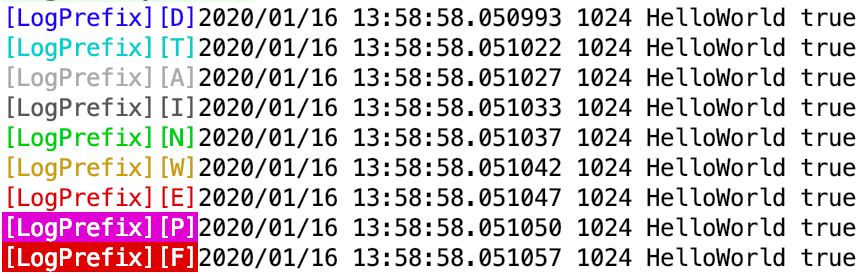
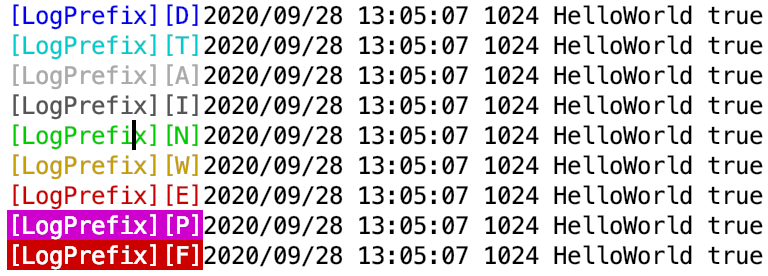
add SetMicroseconds

diff --git a/log.go b/log.go
@@ -58,6 +58,7 @@ type Logger struct {
 	prefix       string
 	out          io.Writer
 	level        Level
+	microseconds int
 	debugLogger  *log.Logger
 	traceLogger  *log.Logger
 	allLogger    *log.Logger
@@ -112,6 +113,21 @@ func (l *Logger) SetLevel(level Level) {
 	l.init()
 }
 
+//SetMicroseconds sets log's microseconds
+func SetMicroseconds(microseconds bool) {
+	logger.SetMicroseconds(microseconds)
+}
+
+//SetMicroseconds sets log's microseconds
+func (l *Logger) SetMicroseconds(microseconds bool) {
+	if microseconds {
+		l.microseconds = log.Lmicroseconds
+	} else {
+		l.microseconds = 0
+	}
+	l.init()
+}
+
 //SetOut sets log's writer. The out variable sets the
 // destination to which log data will be written.
 func SetOut(w io.Writer) {
@@ -136,15 +152,15 @@ func (l *Logger) GetLevel() Level {
 }
 
 func (l *Logger) init() {
-	l.debugLogger = log.New(l.out, blue+"["+l.prefix+"][D]"+reset, log.Ldate|log.Ltime|log.Lmicroseconds|log.LUTC)
-	l.traceLogger = log.New(l.out, cyan+"["+l.prefix+"][T]"+reset, log.Ldate|log.Ltime|log.Lmicroseconds|log.LUTC)
-	l.allLogger = log.New(l.out, white+"["+l.prefix+"][A]"+reset, log.Ldate|log.Ltime|log.Lmicroseconds|log.LUTC)
-	l.infoLogger = log.New(l.out, black+"["+l.prefix+"][I]"+reset, log.Ldate|log.Ltime|log.Lmicroseconds|log.LUTC)
-	l.noticeLogger = log.New(l.out, green+"["+l.prefix+"][N]"+reset, log.Ldate|log.Ltime|log.Lmicroseconds|log.LUTC)
-	l.warnLogger = log.New(l.out, yellow+"["+l.prefix+"][W]"+reset, log.Ldate|log.Ltime|log.Lmicroseconds|log.LUTC)
-	l.errorLogger = log.New(l.out, red+"["+l.prefix+"][E]"+reset, log.Ldate|log.Ltime|log.Lmicroseconds|log.LUTC)
-	l.panicLogger = log.New(l.out, magentaBg+"["+l.prefix+"][P]"+reset, log.Ldate|log.Ltime|log.Lmicroseconds|log.LUTC)
-	l.fatalLogger = log.New(l.out, redBg+"["+l.prefix+"][F]"+reset, log.Ldate|log.Ltime|log.Lmicroseconds|log.LUTC)
+	l.debugLogger = log.New(l.out, blue+"["+l.prefix+"][D]"+reset, log.Ldate|log.Ltime|log.LUTC|l.microseconds)
+	l.traceLogger = log.New(l.out, cyan+"["+l.prefix+"][T]"+reset, log.Ldate|log.Ltime|log.LUTC|l.microseconds)
+	l.allLogger = log.New(l.out, white+"["+l.prefix+"][A]"+reset, log.Ldate|log.Ltime|log.LUTC|l.microseconds)
+	l.infoLogger = log.New(l.out, black+"["+l.prefix+"][I]"+reset, log.Ldate|log.Ltime|log.LUTC|l.microseconds)
+	l.noticeLogger = log.New(l.out, green+"["+l.prefix+"][N]"+reset, log.Ldate|log.Ltime|log.LUTC|l.microseconds)
+	l.warnLogger = log.New(l.out, yellow+"["+l.prefix+"][W]"+reset, log.Ldate|log.Ltime|log.LUTC|l.microseconds)
+	l.errorLogger = log.New(l.out, red+"["+l.prefix+"][E]"+reset, log.Ldate|log.Ltime|log.LUTC|l.microseconds)
+	l.panicLogger = log.New(l.out, magentaBg+"["+l.prefix+"][P]"+reset, log.Ldate|log.Ltime|log.LUTC|l.microseconds)
+	l.fatalLogger = log.New(l.out, redBg+"["+l.prefix+"][F]"+reset, log.Ldate|log.Ltime|log.LUTC|l.microseconds)
 }
 
 // Debug is equivalent to log.Print() for debug.

diff --git a/log_test.go b/log_test.go
@@ -5,6 +5,7 @@
 package log
 
 import (
+	"log"
 	"os"
 	"testing"
 )
@@ -23,6 +24,17 @@ func TestLevel(t *testing.T) {
 	SetOut(os.Stdout)
 	if level != GetLevel() {
 		t.Errorf("error %d != %d", level, GetLevel())
+	}
+}
+
+func TestMicroseconds(t *testing.T) {
+	SetMicroseconds(true)
+	if logger.microseconds != log.Lmicroseconds {
+		t.Errorf("error %d != %d", logger.microseconds, log.Lmicroseconds)
+	}
+	SetMicroseconds(false)
+	if logger.microseconds != 0 {
+		t.Errorf("error %d != %d", logger.microseconds, 0)
 	}
 }
 

diff --git a/example/main.go b/example/main.go
@@ -8,6 +8,7 @@ func main() {
 	logger := log.New()
 	logger.SetPrefix("LogPrefix")
 	logger.SetLevel(log.DebugLevel)
+	logger.SetMicroseconds(false)
 	logger.Debugf("%d %s %t", 1024, "HelloWorld", true)
 	logger.Tracef("%d %s %t", 1024, "HelloWorld", true)
 	logger.Allf("%d %s %t", 1024, "HelloWorld", true)

diff --git a/README.md b/README.md
@@ -43,6 +43,7 @@ func main() {
 	logger := log.New()
 	logger.SetPrefix("LogPrefix")
 	logger.SetLevel(log.DebugLevel)
+	logger.SetMicroseconds(false)
 	logger.Debugf("%d %s %t", 1024, "HelloWorld", true)
 	logger.Tracef("%d %s %t", 1024, "HelloWorld", true)
 	logger.Allf("%d %s %t", 1024, "HelloWorld", true)
@@ -62,5 +63,5 @@ func main() {
 ### License
 This package is licensed under a MIT license (Copyright (c) 2019 Meng Huang)
 
-### Authors
+### Author
 log was written by Meng Huang.
